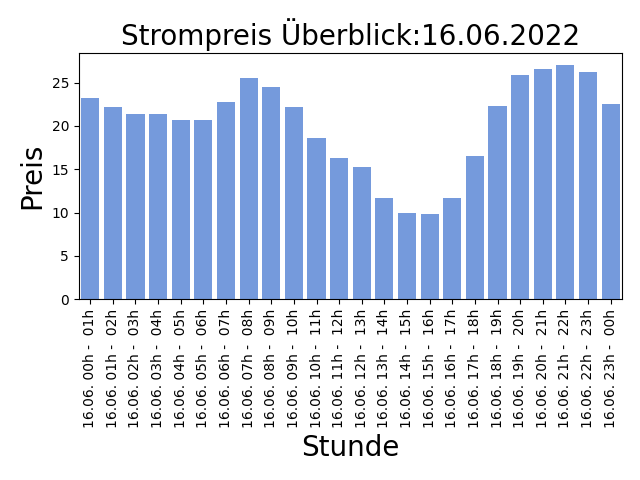
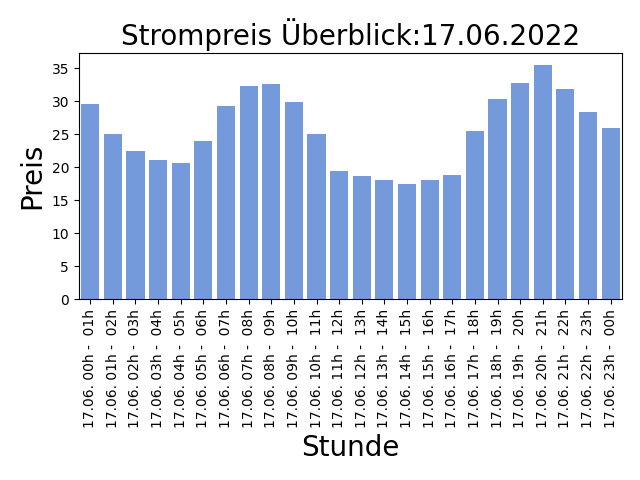
AUTOMATIC UPDATE PRICE LIST: 2022-06-16-14:30:06

diff --git a/README.md b/README.md
@@ -1,5 +1,5 @@
 
-## Strompreise für den 16.06.2022
+## Strompreise für den 17.06.2022
 
 Niedrige Preise deuten auf viel Sonnen und Windenergieerzeugung hin, ein hoher Anteil an erneuerbaren Energien bedeuted weniger CO2 Verbrauch!
 
@@ -7,31 +7,31 @@ Niedrige Preise deuten auf viel Sonnen und Windenergieerzeugung hin, ein hoher A
 
 | Stunde | Preis in Cent/kWh |
 |---|---|
-| 16.06. 00h -  01h | 23.264 | 
-| 16.06. 01h -  02h | 22.154 | 
-| 16.06. 02h -  03h | 21.334 | 
-| 16.06. 03h -  04h | 21.363 | 
-| 16.06. 04h -  05h | 20.646 | 
-| 16.06. 05h -  06h | 20.709 | 
-| 16.06. 06h -  07h | 22.735 | 
-| 16.06. 07h -  08h | 25.496000000000002 | 
-| 16.06. 08h -  09h | 24.5 | 
-| 16.06. 09h -  10h | 22.181 | 
-| 16.06. 10h -  11h | 18.573 | 
-| 16.06. 11h -  12h | 16.348 | 
-| 16.06. 12h -  13h | 15.296000000000001 | 
-| 16.06. 13h -  14h | 11.689 | 
-| 16.06. 14h -  15h | 10.0 | 
-| **16.06. 15h -  16h** | **9.856** | 
-| 16.06. 16h -  17h | 11.663 | 
-| 16.06. 17h -  18h | 16.521 | 
-| 16.06. 18h -  19h | 22.27 | 
-| 16.06. 19h -  20h | 25.856 | 
-| 16.06. 20h -  21h | 26.518 | 
-| 16.06. 21h -  22h | 27.047000000000004 | 
-| 16.06. 22h -  23h | 26.225 | 
-| 16.06. 23h -  00h | 22.490000000000002 | 
+| 17.06. 00h -  01h | 29.621 | 
+| 17.06. 01h -  02h | 25.07 | 
+| 17.06. 02h -  03h | 22.509 | 
+| 17.06. 03h -  04h | 21.14 | 
+| 17.06. 04h -  05h | 20.686 | 
+| 17.06. 05h -  06h | 23.991 | 
+| 17.06. 06h -  07h | 29.233999999999998 | 
+| 17.06. 07h -  08h | 32.331 | 
+| 17.06. 08h -  09h | 32.57 | 
+| 17.06. 09h -  10h | 29.907 | 
+| 17.06. 10h -  11h | 25.043 | 
+| 17.06. 11h -  12h | 19.490000000000002 | 
+| 17.06. 12h -  13h | 18.655 | 
+| 17.06. 13h -  14h | 18.067 | 
+| **17.06. 14h -  15h** | **17.412** | 
+| 17.06. 15h -  16h | 18.047 | 
+| 17.06. 16h -  17h | 18.834 | 
+| 17.06. 17h -  18h | 25.446 | 
+| 17.06. 18h -  19h | 30.399 | 
+| 17.06. 19h -  20h | 32.756 | 
+| 17.06. 20h -  21h | 35.539 | 
+| 17.06. 21h -  22h | 31.906 | 
+| 17.06. 22h -  23h | 28.403 | 
+| 17.06. 23h -  00h | 25.979000000000003 | 
 
 Preise der EPEX Spot ® Strombörse (neue Preise werden täglich um 14:00 veröffentlicht für den kompletten nächsten Tag).
 
-letzte Aktualisierung:15.06.2022 14:30
+letzte Aktualisierung:16.06.2022 14:30
